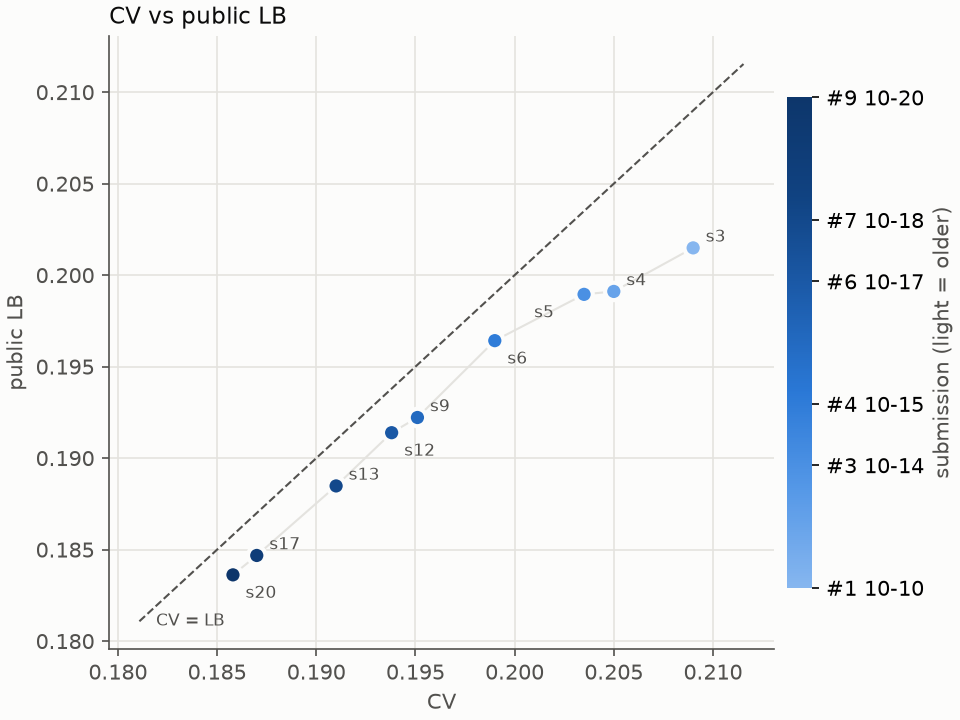
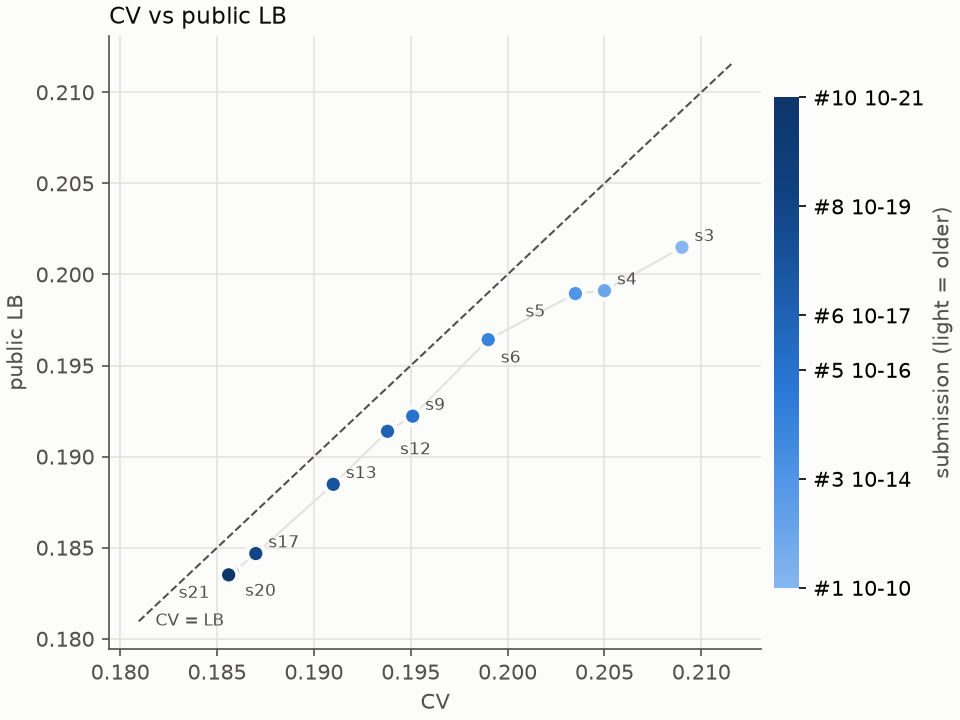
docs: record the S21 submission (LB 0.18351)
S21 went into the last slot although its CV gain over S20 was within
chance. The LB moved by -0.00011, also below the LB noise. The roadmap
now lists the submitted runs the user can pick as the final two.

diff --git a/docs/roadmap.md b/docs/roadmap.md
@@ -8,9 +8,9 @@ wrap-up when the order or the pending decisions change.
 
 | Item | Value |
 |---|---|
-| Our best public LB | 0.18362（S20 `stacker_average_s20`、2026-10-20、CV 0.1858）。S17 は 0.18468、S13 は 0.18848、S12 は 0.19139、S9 は 0.19222、S6 は 0.19642、S5 は 0.19895、S4 は 0.19911、S3 は 0.20149 |
+| Our best public LB | 0.18351（S21 `stacker_average_s21`、2026-10-21、CV 0.1856）。S20 は 0.18362、S17 は 0.18468、S13 は 0.18848、S12 は 0.19139、S9 は 0.19222、S6 は 0.19642、S5 は 0.19895、S4 は 0.19911、S3 は 0.20149 |
 | Best public notebook | なし（公開ノートブック0件、2026-10-10） |
-| LB top and medal line | S20 で1位（2026-10-20 朝）。2位は FOLDER_CYBER の 0.18581、3位は Di molto の 0.18595、4位は babalabにちは の 0.19086、5位は Mitprägung の 0.19114。AI単独ベースライン（0.19726）より上は本 repo を含めて5チーム。メダルなし |
+| LB top and medal line | S21 で1位（2026-10-21 夜）。2位は Di molto の 0.18571、3位は Guitarist Company.Co の 0.18581、4位は Mitprägung の 0.18865、5位は babalabにちは の 0.19086。AI単独ベースライン（0.19726）より上は本 repo を含めて5チーム。メダルなし |
 | CV of the current baseline | S20 スタッキングの平均（S17 に直近16万行の文脈の TabPFN を追加）0.1858（holdout RMSLE）。S21（㎡単価の TabPFN を追加）は 0.1856 で差が偶然の範囲、不採用。S17 スタッキングの平均（TabPFN の文脈を12万行に、市区町村ごとの TabPFN を追加）0.1870。S13 スタッキングの平均＋TabPFN 0.1910。S12 スタッキングの平均 0.1938、S10 スタッキング 0.1950、S9 スタッキング 0.1951。単独の最良は S20 TabPFN（直近16万行の文脈）0.1867、S17 TabPFN（直近12万行の文脈）0.1886、S13 TabPFN 0.1948、GBDT では S6 CatBoost 0.1990。S5 LightGBM 0.2035、S4 0.2050、S3 0.2090、S1 0.2988、下限 0.8137。S1 の leak 点検は clean |
 
 ## 方針（2026-10-10 にユーザーと決定）
@@ -56,7 +56,7 @@ wrap-up when the order or the pending decisions change.
 | S18 | `s18_comparable_sales.py` | 似た物件の取引（取引事例比較法）をメンバーに足す。同じ地区の近い取引 k 件の平均 | #46 | 済（単独 0.2456。スタッキングの平均は S17 と差なし、重み 0、不採用。近くの取引の外れ方とスタッキングの外れ方の相関はほぼ 0） |
 | S19 | `s19_tabpfn_groups.py` | TabPFN を価格情報区分・面積の帯・地域ごとに分けてメンバーに足す。S13 のメンバー自身の 2024Q3〜Q4 の予測を作り、2段目の学習行にも足す | #47 #48 | 済（グループの文脈は GPU のメモリのため2万行。足したのは地域ごとだけで、スタッキングの平均は S17 と差なし（-0.00005）、2024Q3〜Q4 の行を足しても -0.00010 で偶然の範囲。不採用） |
 | S20 | `s20_tabpfn_160k.py` | TabPFN の文脈を16万行にする（全行は 8GB の GPU に載らなかった） | #49 | 済（TabPFN 単独 0.1886 → 0.1867。S17 のスタッキングの平均に足して 0.1858、S17 より -0.0011 で範囲が 0 をまたがない。採用し、最終提出の候補に追加。重みは16万行 0.82、12万行 0 で、実質は入れ替え。leak 点検は clean。提出 LB 0.18362） |
-| S21 | `s21_tabpfn_ppm2_price_type.py` | TabPFN に㎡単価を当てさせる（#50）、価格情報区分ごとに全行を文脈にした TabPFN（#51） | #50 #51 | 済（㎡単価の TabPFN を足してスタッキングの平均 0.1856、S20 より -0.00024 で範囲が 0 をまたぎ不採用。㎡単価の TabPFN 単独は 2024Q3〜Q4 で 0.1813 と S20 より少し良いが、holdout では 0.1869 で S20 と同じ。区分ごとは文脈が 9.5万行と 6.8万行に減って単独 0.0033 悪く、holdout と test は予測せず） |
+| S21 | `s21_tabpfn_ppm2_price_type.py` | TabPFN に㎡単価を当てさせる（#50）、価格情報区分ごとに全行を文脈にした TabPFN（#51） | #50 #51 | 済（㎡単価の TabPFN を足してスタッキングの平均 0.1856、S20 より -0.00024 で範囲が 0 をまたぎ不採用。㎡単価の TabPFN 単独は 2024Q3〜Q4 で 0.1813 と S20 より少し良いが、holdout では 0.1869 で S20 と同じ。区分ごとは文脈が 9.5万行と 6.8万行に減って単独 0.0033 悪く、holdout と test は予測せず。最後の枠で `stacker_average_s21` を提出し LB 0.18351、S20 より -0.00011 で LB のぶれより小さい） |
 
 提出は段階ごとに最大1回で、出すかどうかはユーザーが決める。S1 は「もう少し向上させてから」で見送り（2026-10-10）。提出枠は 10/10〜10/21 の12回。最初から最良を出さず、段階の順に1日1回ずつ少しずつ出す（2026-10-11 ユーザー）。
 
@@ -64,8 +64,8 @@ wrap-up when the order or the pending decisions change.
 
 ## Decisions for the user
 
-- 次の提出をいつ、どれにするか（S3 は 2026-10-10、S4 は 2026-10-11、S5 は 2026-10-14、S6 は 2026-10-15、S9 は 2026-10-16、S12 は 2026-10-17、S13 は 2026-10-18、S17 は 2026-10-19（ユーザーが Kaggle の画面から手で提出、LB 0.18468）、S20 は 2026-10-20（LB 0.18362）に提出済み。残りの枠は 10/21 の1回（締切 23:59 JST）。S21（#50 #51）は不採用で、S20 を偶然の範囲を超えて上回る候補はない。10/21 の枠は、使わないか、S21 `stacker_average_s21`（CV 0.1856、S20 との差 -0.00024 は偶然の範囲）を出すかをユーザーが決める。最終2提出は提出済みのものからしか選べないので、S21 を最終候補にするなら 10/21 に出す必要がある。S14〜S16、S18、S19、S21 はスタッキングの平均が変わらなかった。提出はユーザーの OK を待つ）。作成・検査済みの提出ファイル: S1 `lgbm_raw`（0.2988）、S3 `plus_notation`（0.2090）、S4 `hedonic_linear`（0.2050）、S5 `all_three`（0.2035）、S6 `catboost`（0.1990）、S6 `xgboost`（0.2103）、S7 `mlp`（0.2168）ほか、S9 `stacking`（0.1951）・`weighted_average`（0.1960）・`simple_average`（0.2054）、S10 `stacking`（0.1950）・`weighted_average`（0.1959）・`lightgbm_seed_avg`（0.2022）・`catboost_long`（0.1990）、S12 `stacker_average`（0.1938）、S13 `stacker_average_with_tabpfn`（0.1910）・`tabpfn`（0.1948）、S17 `stacker_average_s17`（0.1870）・`tabpfn_context_large`（0.1886）、S20 `stacker_average_s20`（0.1858）・`tabpfn_160k`（0.1867）、S21 `stacker_average_s21`（0.1856）・`tabpfn_ppm2`（0.1869）
-- 最終2提出の候補（ユーザーが後で選ぶ）: S20 `stacker_average_s20`（CV 0.1858、LB 0.18362、最良）、S21 `stacker_average_s21`（CV 0.1856、S20 と差なし、未提出で 10/21 に出した場合だけ選べる）、S17 `stacker_average_s17`（0.1870、LB 0.18468）、S13 `stacker_average_with_tabpfn`（0.1910、LB 0.18848）、S12 `stacker_average`（0.1938）、S10 `stacking`（0.1950）、S10 `weighted_average`（0.1959、重みが0以上で保守的）。どちらも S4 のヘドニック指数の外挿が前提。S4 の提出で CV と LB は同じ向きに動いた（CV -0.0040、LB -0.0024、#3）
+- 次の提出をいつ、どれにするか（S3 は 2026-10-10、S4 は 2026-10-11、S5 は 2026-10-14、S6 は 2026-10-15、S9 は 2026-10-16、S12 は 2026-10-17、S13 は 2026-10-18、S17 は 2026-10-19（ユーザーが Kaggle の画面から手で提出、LB 0.18468）、S20 は 2026-10-20（LB 0.18362）、S21 は 2026-10-21（不採用だが最後の枠で提出、LB 0.18351）に提出済み。提出枠はすべて使った。S14〜S16、S18、S19、S21 はスタッキングの平均が変わらなかった。提出はユーザーの OK を待つ）。作成・検査済みの提出ファイル: S1 `lgbm_raw`（0.2988）、S3 `plus_notation`（0.2090）、S4 `hedonic_linear`（0.2050）、S5 `all_three`（0.2035）、S6 `catboost`（0.1990）、S6 `xgboost`（0.2103）、S7 `mlp`（0.2168）ほか、S9 `stacking`（0.1951）・`weighted_average`（0.1960）・`simple_average`（0.2054）、S10 `stacking`（0.1950）・`weighted_average`（0.1959）・`lightgbm_seed_avg`（0.2022）・`catboost_long`（0.1990）、S12 `stacker_average`（0.1938）、S13 `stacker_average_with_tabpfn`（0.1910）・`tabpfn`（0.1948）、S17 `stacker_average_s17`（0.1870）・`tabpfn_context_large`（0.1886）、S20 `stacker_average_s20`（0.1858）・`tabpfn_160k`（0.1867）、S21 `stacker_average_s21`（0.1856）・`tabpfn_ppm2`（0.1869）
+- 最終2提出の選択（ユーザーが Kaggle の画面で、締切 2026-10-21 23:59 JST までに選ぶ。選べるのは提出済みのものだけ）: S21 `stacker_average_s21`（CV 0.1856、LB 0.18351、CV も LB も最良）、S20 `stacker_average_s20`（CV 0.1858、LB 0.18362。S21 との差は CV でも LB でも偶然の範囲で、test の予測の差は平均 0.05%）、S17 `stacker_average_s17`（CV 0.1870、LB 0.18468）、S13 `stacker_average_with_tabpfn`（CV 0.1910、LB 0.18848）、S12 `stacker_average`（CV 0.1938、LB 0.19139）。どれも S4 のヘドニック指数の外挿が前提。S4 の提出で CV と LB は同じ向きに動いた（CV -0.0040、LB -0.0024、#3）
 - S9: stacking は「2025Q1 で fit して Q2 で採点、逆向きも」の方式で進める（2026-10-10、ユーザーの「ガンガン進めていい」を受けて決定）
 - holdout の集約特徴の非対称（S5 から、目的変数は使わない）: 地区・駅の集約と件数に holdout の行が入るため、CV が 0.0004 楽観的になる。全メンバーに同じようにかかるので直さず記録した（2026-10-16、`docs/reviews/20261016-s13_tabular_dl-leak.md`）。直すなら全メンバーの再学習が要る
 - S14 以降の進め方（2026-10-17 にユーザーと決定）: ハイパーパラメータ探索は、内側の分割（2024Q2 までで学習、2024Q3〜Q4 で評価）で行い、holdout は選んだ設定ごとに1回だけ使う（#38）。探索の対象は CatBoost、LightGBM、MLP、XGBoost（#39〜#42）。RandomForest と Ridge はモデルの種類の限界で弱いので、TabNet は GPU で結果がばらつくので、TabPFN は1回の予測に1.5時間かかるので、探索しない。S15 で2段目の学習行を増やす（#43）。このパソコンの空いている計算資源（GPU と、別の処理が使っていない CPU）を使ってよい

diff --git a/docs/submissions.md b/docs/submissions.md
@@ -11,3 +11,4 @@
 | 2026-10-18 | s13_tabular_dl | stacker_average_with_tabpfn | 0.1910 | 0.18848 | S13 average of four stackers on the S10 members plus TabPFN-3.5 |  | submission.csv |
 | 2026-10-19 | s17_tabpfn_context | stacker_average_s17 | 0.1870 | 0.18468 | S17 average of four stackers on the S13 members, TabPFN with a 120,000-row context plus a TabPFN per municipality (uploaded by hand on Kaggle) |  | submission.csv |
 | 2026-10-20 | s20_tabpfn_160k | stacker_average_s20 | 0.1858 | 0.18362 | S20 S17 stacker average plus TabPFN with a 160,000-row context |  | submission.csv |
+| 2026-10-21 | s21_tabpfn_ppm2_price_type | stacker_average_s21 | 0.1856 | 0.18351 | S21: S20 stack plus a TabPFN on price per m2 |  | submission.csv |
